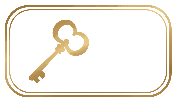
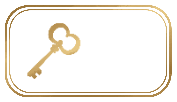
描き直した手描き UI に差し替え：唐草と燕は左右の描き分けを使う、鳥の声・消音の絵、パネルの地を 30% に
Claude-Session: https://claude.ai/code/session_01RMptTWwkLGSHTsRQRfaBgW

Changed region(s): [[0.1412, 0.1765, 0.5085, 0.8235]]

diff --git a/src/orgel_dev.html b/src/orgel_dev.html
@@ -73,26 +73,26 @@
     border:1px solid transparent; border-image-source:var(--frame-img);
     border-image-width:var(--frame-corner); border-image-repeat:round;   /* border-image-slice は JS が隅×3 で入れる */
   }
-  /* 飾りの外枠（手描き）：左右の唐草（LINE.png、右は左右反転）、上の角に燕（bird.png、左は左右反転）、上下の金の線。
+  /* 飾りの外枠（手描き）：左右の唐草（line_L.png・line_R.png）、上の角に燕（bird_L.png・bird_R.png）、上下の金の線。
      画像が両方読めたときだけ #player に .ornate を付ける（無いあいだは今の枠） */
-  #player.ornate{ --gold:#b68f50; --orn-a:.5; --orn-blur:8px; border:0; border-radius:12px; padding:20px 30px 12px; overflow:visible;
+  #player.ornate{ --gold:#b68f50; --orn-a:.3; --orn-blur:8px; border:0; border-radius:12px; padding:20px 30px 12px; overflow:visible;
     background:rgba(30,24,58,var(--orn-a)); -webkit-backdrop-filter:blur(var(--orn-blur)); backdrop-filter:blur(var(--orn-blur)); }   /* 地の濃さとぼかし（確認用に ?panela=・?panelblur=） */
   #player.ornate #npTitle{ color:var(--gold); }
   #player .orn{ position:absolute; pointer-events:none; display:none; }
   #player.ornate .orn{ display:block; }
   #player .orn-side{ top:-4px; height:calc(100% + 8px); width:auto; }
   #player .orn-l{ left:-13px; }
-  #player .orn-r{ right:-13px; transform:scaleX(-1); }
+  #player .orn-r{ right:-13px; }
   #player .orn-bird{ top:-30px; width:56px; height:auto; }
-  #player .orn-bl{ left:14px; transform:scaleX(-1); }
+  #player .orn-bl{ left:14px; }
   #player .orn-br{ right:14px; }
   #player .orn-line{ height:0; border-top:1.5px solid var(--gold); }
   #player .orn-top{ top:0; left:74px; right:74px; }
   #player .orn-bot{ bottom:0; left:22px; right:22px; }
-  /* まだ絵の無いボタン（鳥の声・消音）は、金の縁取りと文字で絵に寄せる */
+  /* 絵の無いボタンは、金の縁取りと文字で絵に寄せる */
   #player.ornate #modeBtn:not(.hasIcon), #player.ornate #birdBtn:not(.hasIcon){ color:var(--gold); border:1.5px solid var(--gold); border-radius:8px; font-family:Georgia,'Times New Roman',serif; font-weight:700; height:34px; padding:0 9px; }
   #player.ornate #muteBtn:not(.hasIcon){ color:var(--gold); }
-  #player.ornate #muteBtn.hasIcon.isMuted{ opacity:.4; }   /* 消音の絵が無いあいだは、音ありの絵を薄くして見せる */
+  #player.ornate #muteBtn.hasIcon.muteFallback{ opacity:.4; }   /* 消音の絵が無いときは、音ありの絵を薄くして見せる */
   #player.ornate #springBtn.hasIconText{ color:var(--gold); font:700 11px/1 Georgia,'Times New Roman',serif; }
   #player.ornate #volSlider{ accent-color:var(--gold); }
   /* 手描きのボタン：ボタン全体を画像で描く（円・縁取り・地の色も画像の中）。CSS の縁取りと地の色は消す */
@@ -1752,7 +1752,7 @@ function cyclePlayMode(){
 const ICON_FILES = {   // key: [ファイル名, 表示の幅, 高さ]
   play:['icon_play.png', 54, 54], pause:['icon_pause.png', 54, 54], prev:['icon_prev.png', 44, 44], next:['icon_next.png', 44, 44],
   list:['icon_list.png', 90, 38], modeSingle:['icon_mode_single.png', 59, 34], modeAll:['icon_mode_all.png', 59, 34], modeShuffle:['icon_mode_shuffle.png', 59, 34],
-  birdOn:['icon_bird_on.png', 52, 29], birdOff:['icon_bird_off.png', 52, 29], unmute:['icon_unmute.png', 22, 23], mute:['icon_mute.png', 22, 23],   // 音あり・消音はユーザーの見本の大きさ（絵は 96×101）
+  birdOn:['icon_bird_on.png', 59, 34], birdOff:['icon_bird_off.png', 59, 34], unmute:['icon_unmute.png', 22, 23], mute:['icon_mute.png', 22, 23],   // 音あり・消音はユーザーの見本の大きさ（絵は 96×101）
   spring:['icon_spring.png', 59, 34],   // ゼンマイ：ボタン全体の絵。残り時間の文字はアプリが右側に重ねる（絵の左 3 分の 1 に鍵、右は文字用に空ける）
 };
 const ICON_DIR = PARAMS.get('icondir') || ROOT + 'assets/ui/';   // ?icondir= は確認用
@@ -1817,24 +1817,25 @@ function refreshPlayerIcons(){
   refreshMuteIcon();
 }
 function refreshMuteIcon(){   // 消音の絵が無いあいだは、音ありの絵を薄くして使う（文字の 🔇 だと絵の中で浮く）
-  setIcon(muteBtn, muted && (ICONS.mute || !ICONS.unmute) ? 'mute' : 'unmute', muted ? '🔇' : '🔊');
-  muteBtn.classList.toggle('isMuted', muted);
+  const fallback = muted && !ICONS.mute && !!ICONS.unmute;
+  setIcon(muteBtn, muted && !fallback ? 'mute' : 'unmute', muted ? '🔇' : '🔊');
+  muteBtn.classList.toggle('muteFallback', fallback);
 }
 iconRefresh.push(refreshPlayerIcons);
 iconRefresh.push(updateSpringBtn);
 refreshPlayerIcons();
-/* 飾りの外枠：唐草と燕の絵が両方読めたら組み立てる（?icondir= の場所から読む） */
+/* 飾りの外枠：唐草と燕の絵（左右それぞれ）が全部読めたら組み立てる（?icondir= の場所から読む） */
 {
   const player = document.getElementById('player');
-  const srcs = { side:ICON_DIR + 'LINE.png', bird:ICON_DIR + 'bird.png' };
-  let left = 2;
+  const srcs = { sideL:ICON_DIR + 'line_L.png', sideR:ICON_DIR + 'line_R.png', birdL:ICON_DIR + 'bird_L.png', birdR:ICON_DIR + 'bird_R.png' };
+  let left = 4;
   const add = (cls, tag, src)=>{ const e = document.createElement(tag); e.className = 'orn ' + cls; if(src){ e.src = src; e.alt = ''; } player.appendChild(e); };
   for(const k in srcs){
     const img = new Image();
     img.onload = ()=>{ if(--left) return;
       add('orn-line orn-top', 'div'); add('orn-line orn-bot', 'div');
-      add('orn-side orn-l', 'img', srcs.side); add('orn-side orn-r', 'img', srcs.side);
-      add('orn-bird orn-bl', 'img', srcs.bird); add('orn-bird orn-br', 'img', srcs.bird);
+      add('orn-side orn-l', 'img', srcs.sideL); add('orn-side orn-r', 'img', srcs.sideR);
+      add('orn-bird orn-bl', 'img', srcs.birdL); add('orn-bird orn-br', 'img', srcs.birdR);
       if(PARAMS.has('panela')) player.style.setProperty('--orn-a', PARAMS.get('panela'));
       if(PARAMS.has('panelblur')) player.style.setProperty('--orn-blur', PARAMS.get('panelblur') + 'px');
       player.classList.add('ornate');

diff --git a/orgel_handoff.md b/orgel_handoff.md
@@ -267,22 +267,21 @@
 | 前の曲／次の曲 | `icon_prev.png`／`icon_next.png` | 132 × 132 | 44 × 44 |
 | 曲一覧 | `icon_list.png` | 270 × 114 | 90 × 38 |
 | 再生モード（1曲／全曲／シャッフル） | `icon_mode_single.png`／`icon_mode_all.png`／`icon_mode_shuffle.png` | 177 × 102 | 59 × 34 |
-| 鳥の声（オン／オフ） | `icon_bird_on.png`／`icon_bird_off.png` | 156 × 87 | 52 × 29 |
+| 鳥の声（オン／オフ） | `icon_bird_on.png`／`icon_bird_off.png` | 177 × 102 | 59 × 34 |
 | 音あり／消音 | `icon_unmute.png`／`icon_mute.png` | 96 × 101 | 22 × 23（ユーザーの見本の大きさ） |
 | ゼンマイ（ねじ巻き） | `icon_spring.png` | 177 × 102 | 59 × 34 |
 
 寸法を変えるときは `ICON_FILES`（`src/orgel_dev.html`）の表示サイズを直す。文字の入るボタン（曲一覧・モード・鳥の声）は文字も絵に描き込む。
 **ゼンマイだけは例外**：残り時間（∞・15分・28分…）が変わるので文字は描き込まない。ボタン全体（縁取り・地の色）と左の約3分の1に鍵の絵を描き、右側は空けておく。アプリがそこに残り時間の文字（金・Georgia の太字 11px）を重ねる。
-- 2026-10-11 にユーザーの手描き（金の線画）が届いた（`assets/ui/`）。曲一覧・鳥の声・消音の絵はまだ無い。無いあいだ、鳥の声のボタンは金の縁取りと文字で絵に寄せ、消音は音ありの絵を薄く（40%）して見せる。
+- 2026-10-11 にユーザーの手描き（金の線画）が届いた（`assets/ui/`。同じ日に再生・一時停止・曲送り以外を描き直した版に差し替え）。曲一覧の絵はまだ無い。絵の無いボタンは金の縁取りと文字で絵に寄せる。消音の絵が無いときは音ありの絵を薄く（40%）して見せる。
 - プレーヤーの横幅は最大 520px（`--player-max`）。広い画面では中央に寄せる。
 
 ### プレーヤーの飾り枠（手描き。2026-10-11 に届いた方式。下の9分割の外枠より優先）
-- `assets/ui/LINE.png`（540 × 2330、縦の唐草）と `assets/ui/bird.png`（1668 × 1668、燕）が両方読めたら、#player に `.ornate` を付けて組み立てる。
-- 左右の辺：唐草をパネルの高さに合わせて縦に伸縮（縦横比は保つ）。左はそのまま、右は左右反転。パネルの縁から 13px 外に出す。
-- 上の角：燕（幅 56px）。左は左右反転して、頭がどちらも内側を向く。パネルの上端から 30px はみ出す（ヒントとデバッグ表示はその分上げた）。
+- `assets/ui/line_L.png`・`line_R.png`（100 × 431、縦の唐草）と `bird_L.png`・`bird_R.png`（168 × 168、燕。頭が内側を向く）が全部読めたら、#player に `.ornate` を付けて組み立てる。左右はユーザーが描き分けたもので、コードでは反転しない。
+- 左右の辺：唐草をパネルの高さに合わせて縦に伸縮（縦横比は保つ）。パネルの縁から 13px 外に出す。
+- 上の角：燕（幅 56px）。パネルの上端から 30px はみ出す（ヒントとデバッグ表示はその分上げた）。
 - 上の線は燕と燕のあいだ、下の線は唐草の下端どうしのあいだ。金 `#b68f50`（見本から取った色）、太さ 1.5px。CSS で引く。
-- パネルの地は今の半透明の地のまま（枠線は消す）。
-- bird.png は 1668px 四方で約 1MB。表示は幅 56px なので、3倍の 168px 四方で足りる。
+- パネルの地は濃さ 30%（`--orn-a: .3`）、ぼかし 8px。ユーザーが5段階の比較から選んだ（B）。枠線は消す。曲名は金。確認用に `?panela=`・`?panelblur=` で変えられる。
 
 ### プレーヤーの外枠の画像（手描き。9分割の方式。飾り枠が無いときだけ使う）
 - **置き場所**：`assets/ui/player_frame.png`。置くだけで差し替わる。無いあいだは今の枠（半透明の地＋細い線）のまま。無いときは、読み込みの失敗（404）がコンソールに1行出るだけで動作には影響しない。確認用に `?frame=画像のパス` で別の画像を当てられる。
